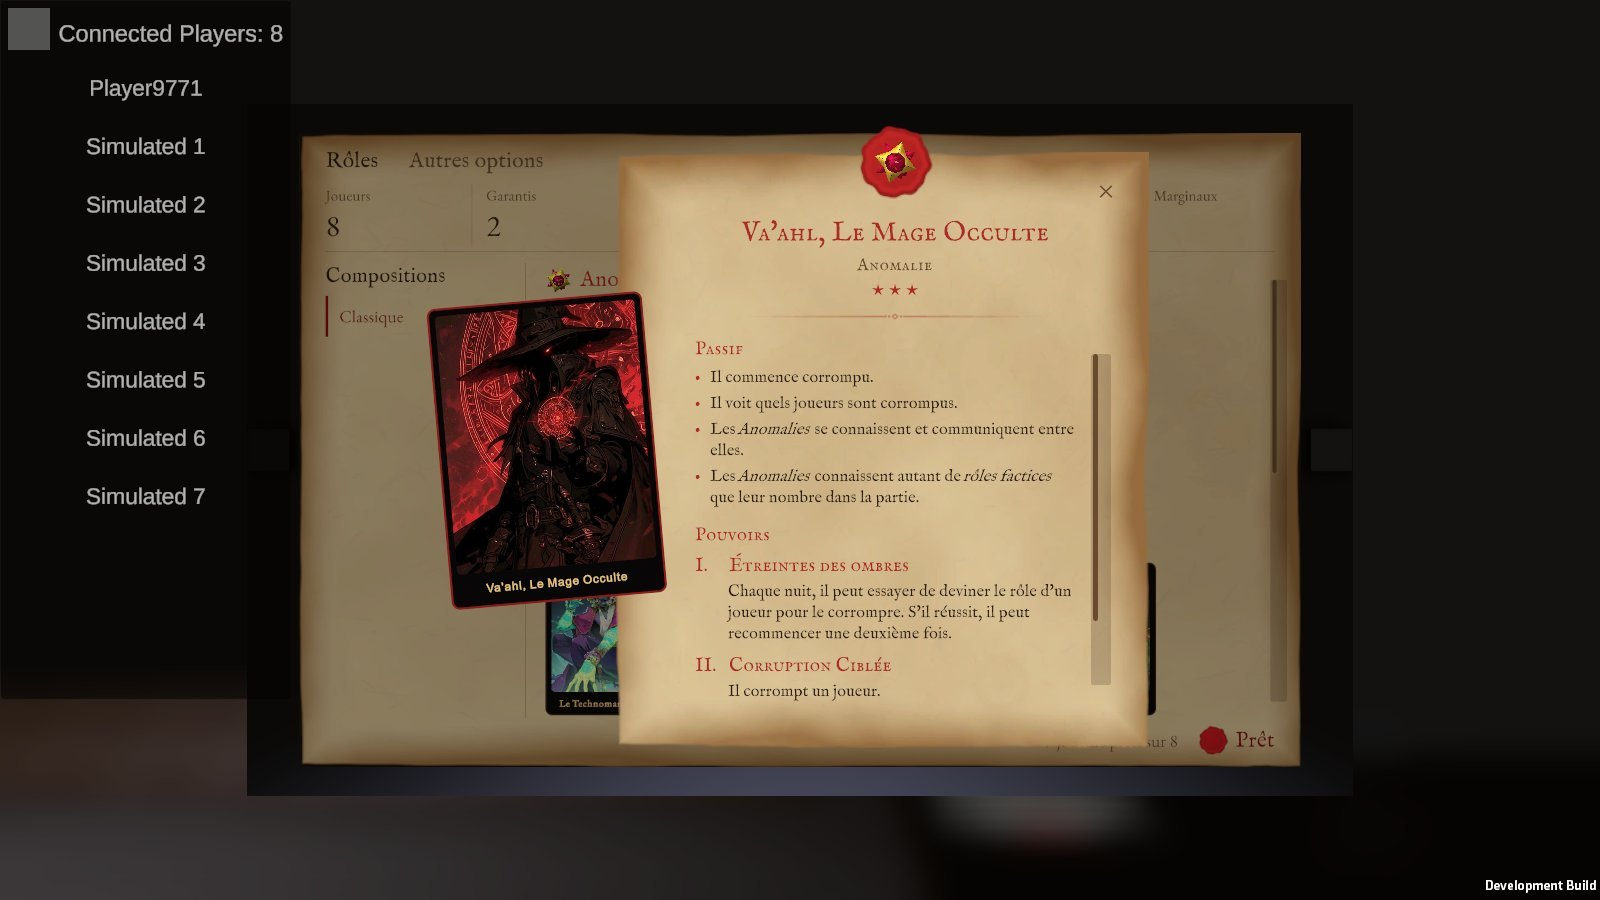
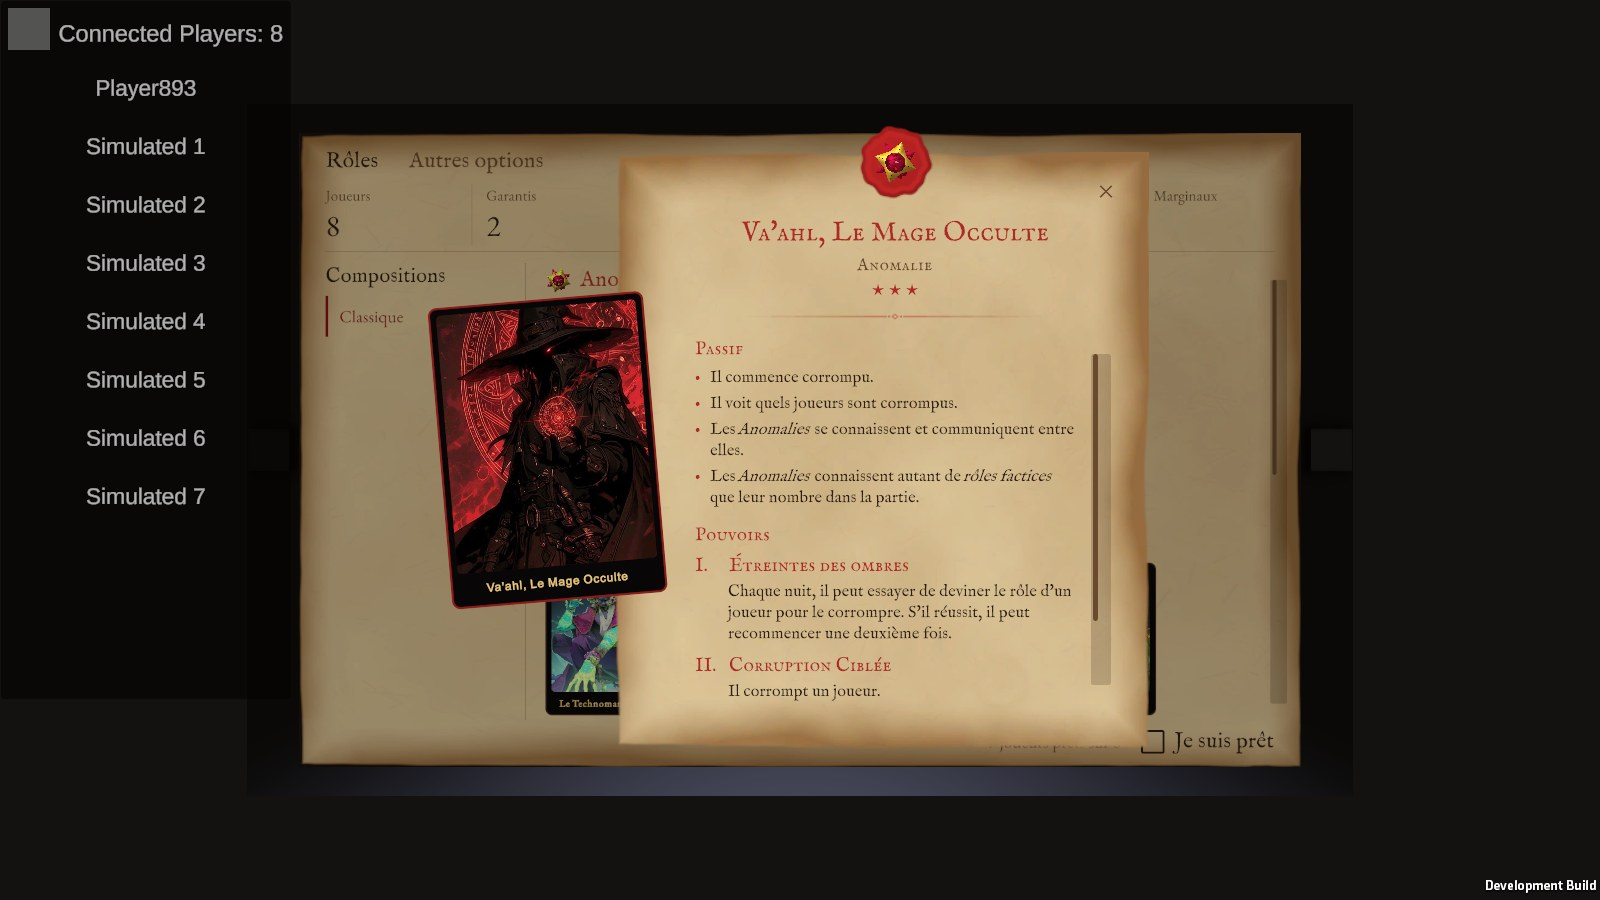
docs(ui): re-take the in-game tablet captures in true colours
The lobby tablet looked washed out on the in-game captures of this PR. An
investigation (case file added) showed the game renders it correctly: the
autoplay recorder encoded its frames to sRGB a second time. Fixed in
com.unpseudo.autoplay 0.2.1; these three captures are re-taken with it and
now match what the player sees.

diff --git a/_bmad-output/implementation-artifacts/investigations/tablet-washed-out-investigation.md b/_bmad-output/implementation-artifacts/investigations/tablet-washed-out-investigation.md
@@ -1,0 +1,164 @@
+# Investigation: the lobby tablet shows its UI Toolkit apps washed out
+
+## Hand-off Brief
+
+1. **What happened.** The tablet looked washed out on autoplay recordings only. The game renders it correctly: the
+   wash is a double sRGB encode in the autoplay package's `AutoplayRecorder.SaveFrame` (Confirmed).
+2. **Where the case stands.** Concluded, High confidence. In-game screenshots taken with `ScreenCapture` show exact
+   control colours; recorder frames equal those colours sRGB-encoded a second time, to the unit.
+3. **What's needed next.** Fix `SaveFrame` in `com.unpseudo.autoplay` (blit into a linear RenderTexture), release a
+   tag, bump `Packages/manifest.json`; re-take the PR #143 in-game captures that came from the recorder.
+
+## Case Info
+
+| Field            | Value                                                                                   |
+| ---------------- | --------------------------------------------------------------------------------------- |
+| Ticket           | N/A (found while redrawing the lobby tablet, PR #143)                                   |
+| Date opened      | 2026-10-19                                                                              |
+| Status           | Concluded                                                                               |
+| System           | Unity 6000.5.0f1, URP 17.5, linear colour space, Windows dev player (autoplay)          |
+| Evidence sources | autoplay captures (AutoplayRuns/), GameScene inspection via `unity command eval`, code  |
+
+## Problem Statement
+
+Poyo, reading the redrawn lobby tablet: the screen looks pale. First claim (Claude): a double gamma encode. Poyo: "I'm
+almost sure the double gamma encode comes from you" (measurement error). Poyo's lead: the scene lights should not
+interact much with the tablet.
+
+## Evidence Inventory
+
+| Source | Status | Notes |
+| ------ | ------ | ----- |
+| In-game captures, new screen | Available | `AutoplayRuns/20261019-122708-build-seed4320/rec-00*/` |
+| In-game captures, old screen (build 16/10) | Available | main checkout `AutoplayRuns/20261019-085829-build-seed4311/` |
+| Off-screen UITK render of the same panel | Available | headless editor, `LobbyRolesUitkController` + demo data |
+| GameScene cameras / tablet materials / volumes | Available | dumped by eval (see Confirmed Findings) |
+| Runtime content of the UITK RenderTexture | Available | `[TABLETGAMMA]` probe, `Logs/autoplay-player-4323.log`, dump `%LOCALAPPDATA%Low/DefaultCompany/CorruptionDuPortail/tabletgamma_rt.png` |
+| Control patches on the tablet canvas | Partial | created while the tablet was off screen (y = -3440 px) and never seen on the captures |
+| Render-config sweep screenshots | Missing | code written in the probe, not run (editor stopped) |
+
+## Investigation Backlog
+
+| # | Path to Explore | Priority | Status | Notes |
+| - | --------------- | -------- | ------ | ----- |
+| 1 | Runtime RT bytes vs off-screen render | High | Done | RT correct: the wash is added at draw time |
+| 4 | Render-config sweep (phone post, base HDR, Volume off) with screenshots | High | Open | probe ready, needs an editor to build |
+| 5 | Why the control patches never show (child RawImages of LobbyRolesRawImage) | Low | Open | may itself say what draws the visible screen |
+| 2 | UI/Default sampling of the RT in the overlay camera (HDR stack, post at the end) | High | Open | |
+| 3 | InfoTable: same wash? | Medium | Open | same presenter pattern |
+
+## Confirmed Findings
+
+### Finding 1: the darks are lifted on the tablet only, and before PR #143
+
+**Evidence:** luminance percentiles (5/25/50 %) of the Abyss portrait: source `Assets/Art/Sprites/Portraits/Abyss.jpg`
+10/15/30; off-screen UITK render 11/16/36; tablet, new screen 58/73/110; tablet, old screen (build 16/10) 53/65/100;
+cork board in game 19/21/32.
+
+**Detail:** a uniform brightening (exposure) would keep 10 near 11-13; the observed lift matches sRGB-encoding an
+already-encoded value (10 → 56, 15 → 69, 30 → 97).
+
+### Finding 2: the tablet canvas is drawn by an Overlay camera stacked on the post-processed base camera
+
+**Evidence:** GameScene `---System---/PhoneCamera` = Overlay, cullingMask Phone (256), no target texture, post off;
+`---System---/CameraBrain` = Base, HDR on, post on. Global Volume (SampleSceneProfile): Tonemapping Neutral, Bloom
+threshold 1 / 0.25, Vignette 0.2. Tablet canvas `TabletParent/Tablet/ScreenCanvas` world space, RawImage
+`LobbyRolesRawImage` with UI/Default; the 3D screen mesh behind is URP Lit black (smoothness 0.07).
+
+### Finding 3: the RT format is not the cause
+
+**Evidence:** `LobbyRolesRtPresenter` RT created ARGB32 Default; rebuilt with `RenderTextureReadWrite.Linear`, the
+in-game values did not change (run 20261019-123026-build-seed4321). `PS_LobbyRoles_RT.forceGammaRendering = 0`.
+
+### Finding 4: the UITK RenderTexture holds the right colours in the player
+
+**Evidence:** `Logs/autoplay-player-4323.log`: `[TABLETGAMMA] rt sRGB=True fmt=R8G8B8A8_SRGB colorSpace=Linear lum
+p05=6 p50=184 patchTop=RGBA(212, 187, 142, 255)`; the same parchment patch is (212, 187, 142) in the off-screen render;
+alpha is 255 on every pixel of the dumped RT.
+
+**Detail:** the wash is not written by UI Toolkit nor caused by the RT format or alpha: it is added downstream, when
+`LobbyRolesRawImage` (UI/Default) is drawn by the Overlay PhoneCamera.
+
+## Hypothesized Paths
+
+### Hypothesis 1: double gamma encode in the RT → RawImage path
+
+**Status:** Open
+
+**Theory:** UITK writes sRGB-encoded values that are then read as linear and encoded again.
+
+**Would confirm:** RT bytes in the player already equal the source (≈ 10 for darks) while the screen shows ≈ 56.
+
+**Would refute:** RT bytes already lifted, or an equal lift on a non-RT tablet graphic.
+
+**Resolution:** refuted at the RT level (Finding 4: bytes correct, format sRGB). A double encode may still happen at
+draw time in the camera stack: that is Hypothesis 3.
+
+### Hypothesis 2 (Poyo): scene lighting affects the tablet
+
+**Status:** Open
+
+**Theory:** a lit material or the scene's lighting adds light to the tablet screen.
+
+**Supporting indicators:** the 3D screen mesh and tablet body use URP Lit.
+
+**Would refute:** the RawImage uses UI/Default (unlit), and the lift shows on the RawImage itself.
+
+**Resolution so far:** the RawImage is UI/Default (unlit, Confirmed). Scene lights cannot light it directly; they can
+only reach it through the shared post-processing of the stack (Hypothesis 3). The lit black screen mesh sits behind an
+opaque RawImage (alpha 255) and cannot show through.
+
+### Hypothesis 3: the camera stack's HDR / post-processing treats the overlay UI as linear twice
+
+**Status:** Open
+
+**Theory:** PhoneCamera (Overlay, post off) draws into CameraBrain's HDR intermediate; the final pass converts it once
+more, or tonemapping/colour handling of the stack lifts it.
+
+**Would confirm:** the lift disappears with PhoneCamera post on, base HDR off, or the Volume at 0 (sweep, backlog #4).
+
+**Would refute:** the lift survives all three, pointing at the RawImage material / canvas settings instead.
+
+## Missing Evidence
+
+| Gap | Impact | How to Obtain |
+| --- | ------ | ------------- |
+| RT bytes at runtime | splits hypothesis 1 from a display-side cause | `[TABLETGAMMA]` probe |
+
+## Follow-up: 2026-10-19
+
+### New Evidence
+
+- Clean sweep (lobby held 20 s by a temporary `[TABLETGAMMA]` delay in `LobbyReady`, role card closed), screenshots
+  written by `ScreenCapture.CaptureScreenshot` in the player, `Logs/autoplay-player-4327.log`:
+  vertex black 0,0,0; vertex grey 128 → 128; sRGB texture grey 128 → 128; parchment (212, 187, 141) = RT bytes;
+  Abyss darks 11/17/37 = source. Same with PhoneCamera post on, base HDR off, Volume weight 0.
+- sRGB-encoding the clean values once more gives parchment (235, 222, 196), Abyss 59/73/106, background 90; the
+  recorder frames read (236, 222, 196), 58/73/110, ~80-90.
+
+### Additional Findings
+
+**Finding 5: the game renders the tablet correctly; the wash is added by the autoplay recorder.**
+`Library/PackageCache/com.unpseudo.autoplay@e02473e1bdf3/Runtime/AutoplayRecorder.cs:180-193`: the frame from
+`ScreenCapture.CaptureScreenshotAsTexture()` (sRGB bytes in a linear-flagged texture) is `Graphics.Blit` into
+`RenderTexture.GetTemporary(width, height)`, an sRGB target in a linear project, so the blit encodes the bytes a
+second time; `ReadPixels` returns the encoded values. `AutoplayCapture.cs:117-119` (verdict screenshots) encodes the
+texture directly, which is why the cork board looked right and the tablet (recorded with `-autoplay-record`) did not.
+
+### Updated Hypotheses
+
+- Hypothesis 1 (double gamma): **Confirmed**, but in the capture tool, not in the game's display chain.
+- Hypothesis 2 (scene lights on the tablet): **Refuted**. RawImage is unlit UI/Default and the screen colours are exact.
+- Hypothesis 3 (camera stack HDR / post): **Refuted**. Turning each off changes nothing on the tablet (parchment
+  moves only with PhoneCamera post on, which the game does not use).
+
+### Backlog Changes
+
+- #4 Done. #5 Done (patches were created off screen; visible and exact once the tablet is up). #3 InfoTable: moot.
+
+### Updated Conclusion
+
+**Confidence: High.** No defect in the game. Fix direction: in `AutoplayRecorder.SaveFrame`, use
+`RenderTexture.GetTemporary(width, height, 0, RenderTextureFormat.ARGB32, RenderTextureReadWrite.Linear)` so the blit
+copies bytes unchanged (or mark the source texture sRGB). Everything measured on `rec-*` frames before the fix is
+lifted the same way, including `tools/maquettes/attribution-roles/captures/jeu/*.jpg` in PR #143.
